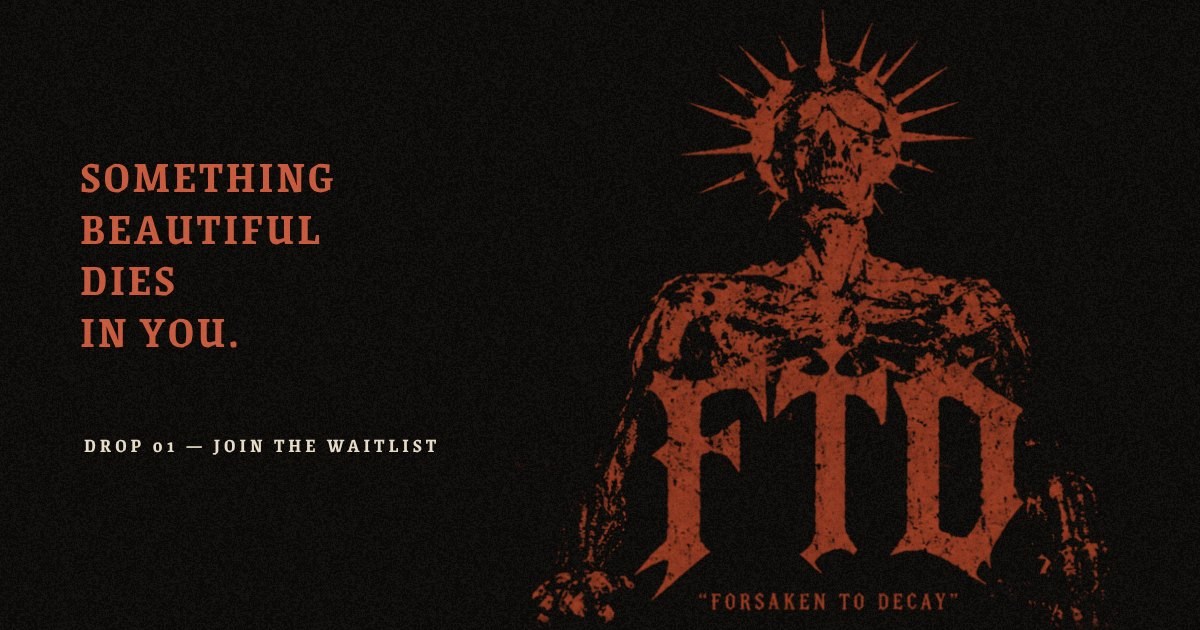
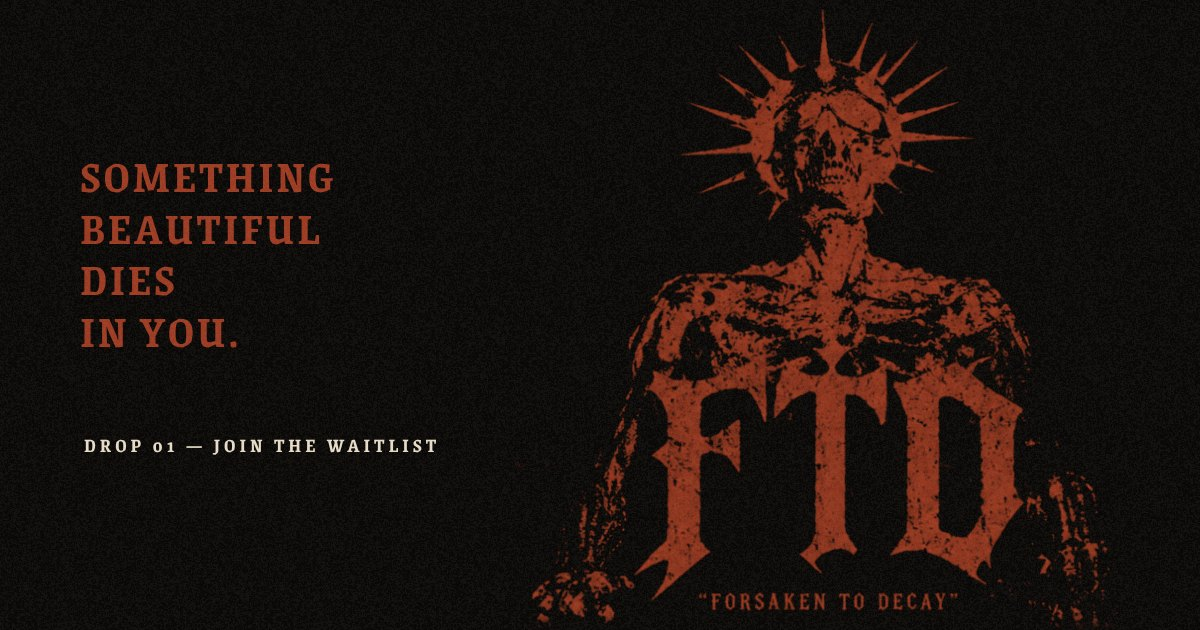
FTD: one deep rust tone for text and art
Text, links and borders now use the same #9C3A22 as the artwork, by brand
choice; --rust-text stays as its own token so a lighter text tone is a
one-line change. Favicon and share card follow.

Claude-Session: https://claude.ai/code/session_011d2wHP1XSzsXBYmp6oA4oe

Changed region(s): [[0.0617, 0.4222, 0.185, 0.573], [0.0617, 0.3317, 0.2775, 0.3921], [0.0617, 0.2413, 0.2775, 0.3016]]

diff --git a/ftd/src/styles/tokens.css b/ftd/src/styles/tokens.css
@@ -3,19 +3,19 @@
   --ink: #0a0807;
   --char: #15110e;
   --char-2: #1c1713;
-  /* rust red: --rust is the ink of the artwork (2.9:1 on --ink, so art, fills and
-     ornaments only); --rust-text is the same hue lifted to 4.7:1 for all text and
-     interactive borders; bone on a --rust fill reads at 5.1:1 */
+  /* rust red, one tone for art and text alike (a brand choice: 2.9:1 on --ink, below
+     the 4.5:1 guideline for small text). For a more legible text tone, set
+     --rust-text to #c8583c (4.7:1). Bone on a --rust fill reads at 5.1:1. */
   --rust: #9c3a22;
-  --rust-text: #c8583c;
+  --rust-text: var(--rust);
   --rust-deep: #7a2c19;
   --bone: #e6dcc9;
   --grey: #82796f;
   --grey-2: #9a9085; /* small supporting text on --ink */
   --error: #eaa98c; /* paler than --rust-text so errors never read as normal copy */
 
-  --line: rgb(200 88 60 / 0.6);
-  --line-soft: rgb(200 88 60 / 0.26);
+  --line: rgb(156 58 34 / 0.75);
+  --line-soft: rgb(156 58 34 / 0.38);
   --line-bone: rgb(230 220 201 / 0.14);
 
   /* type */
